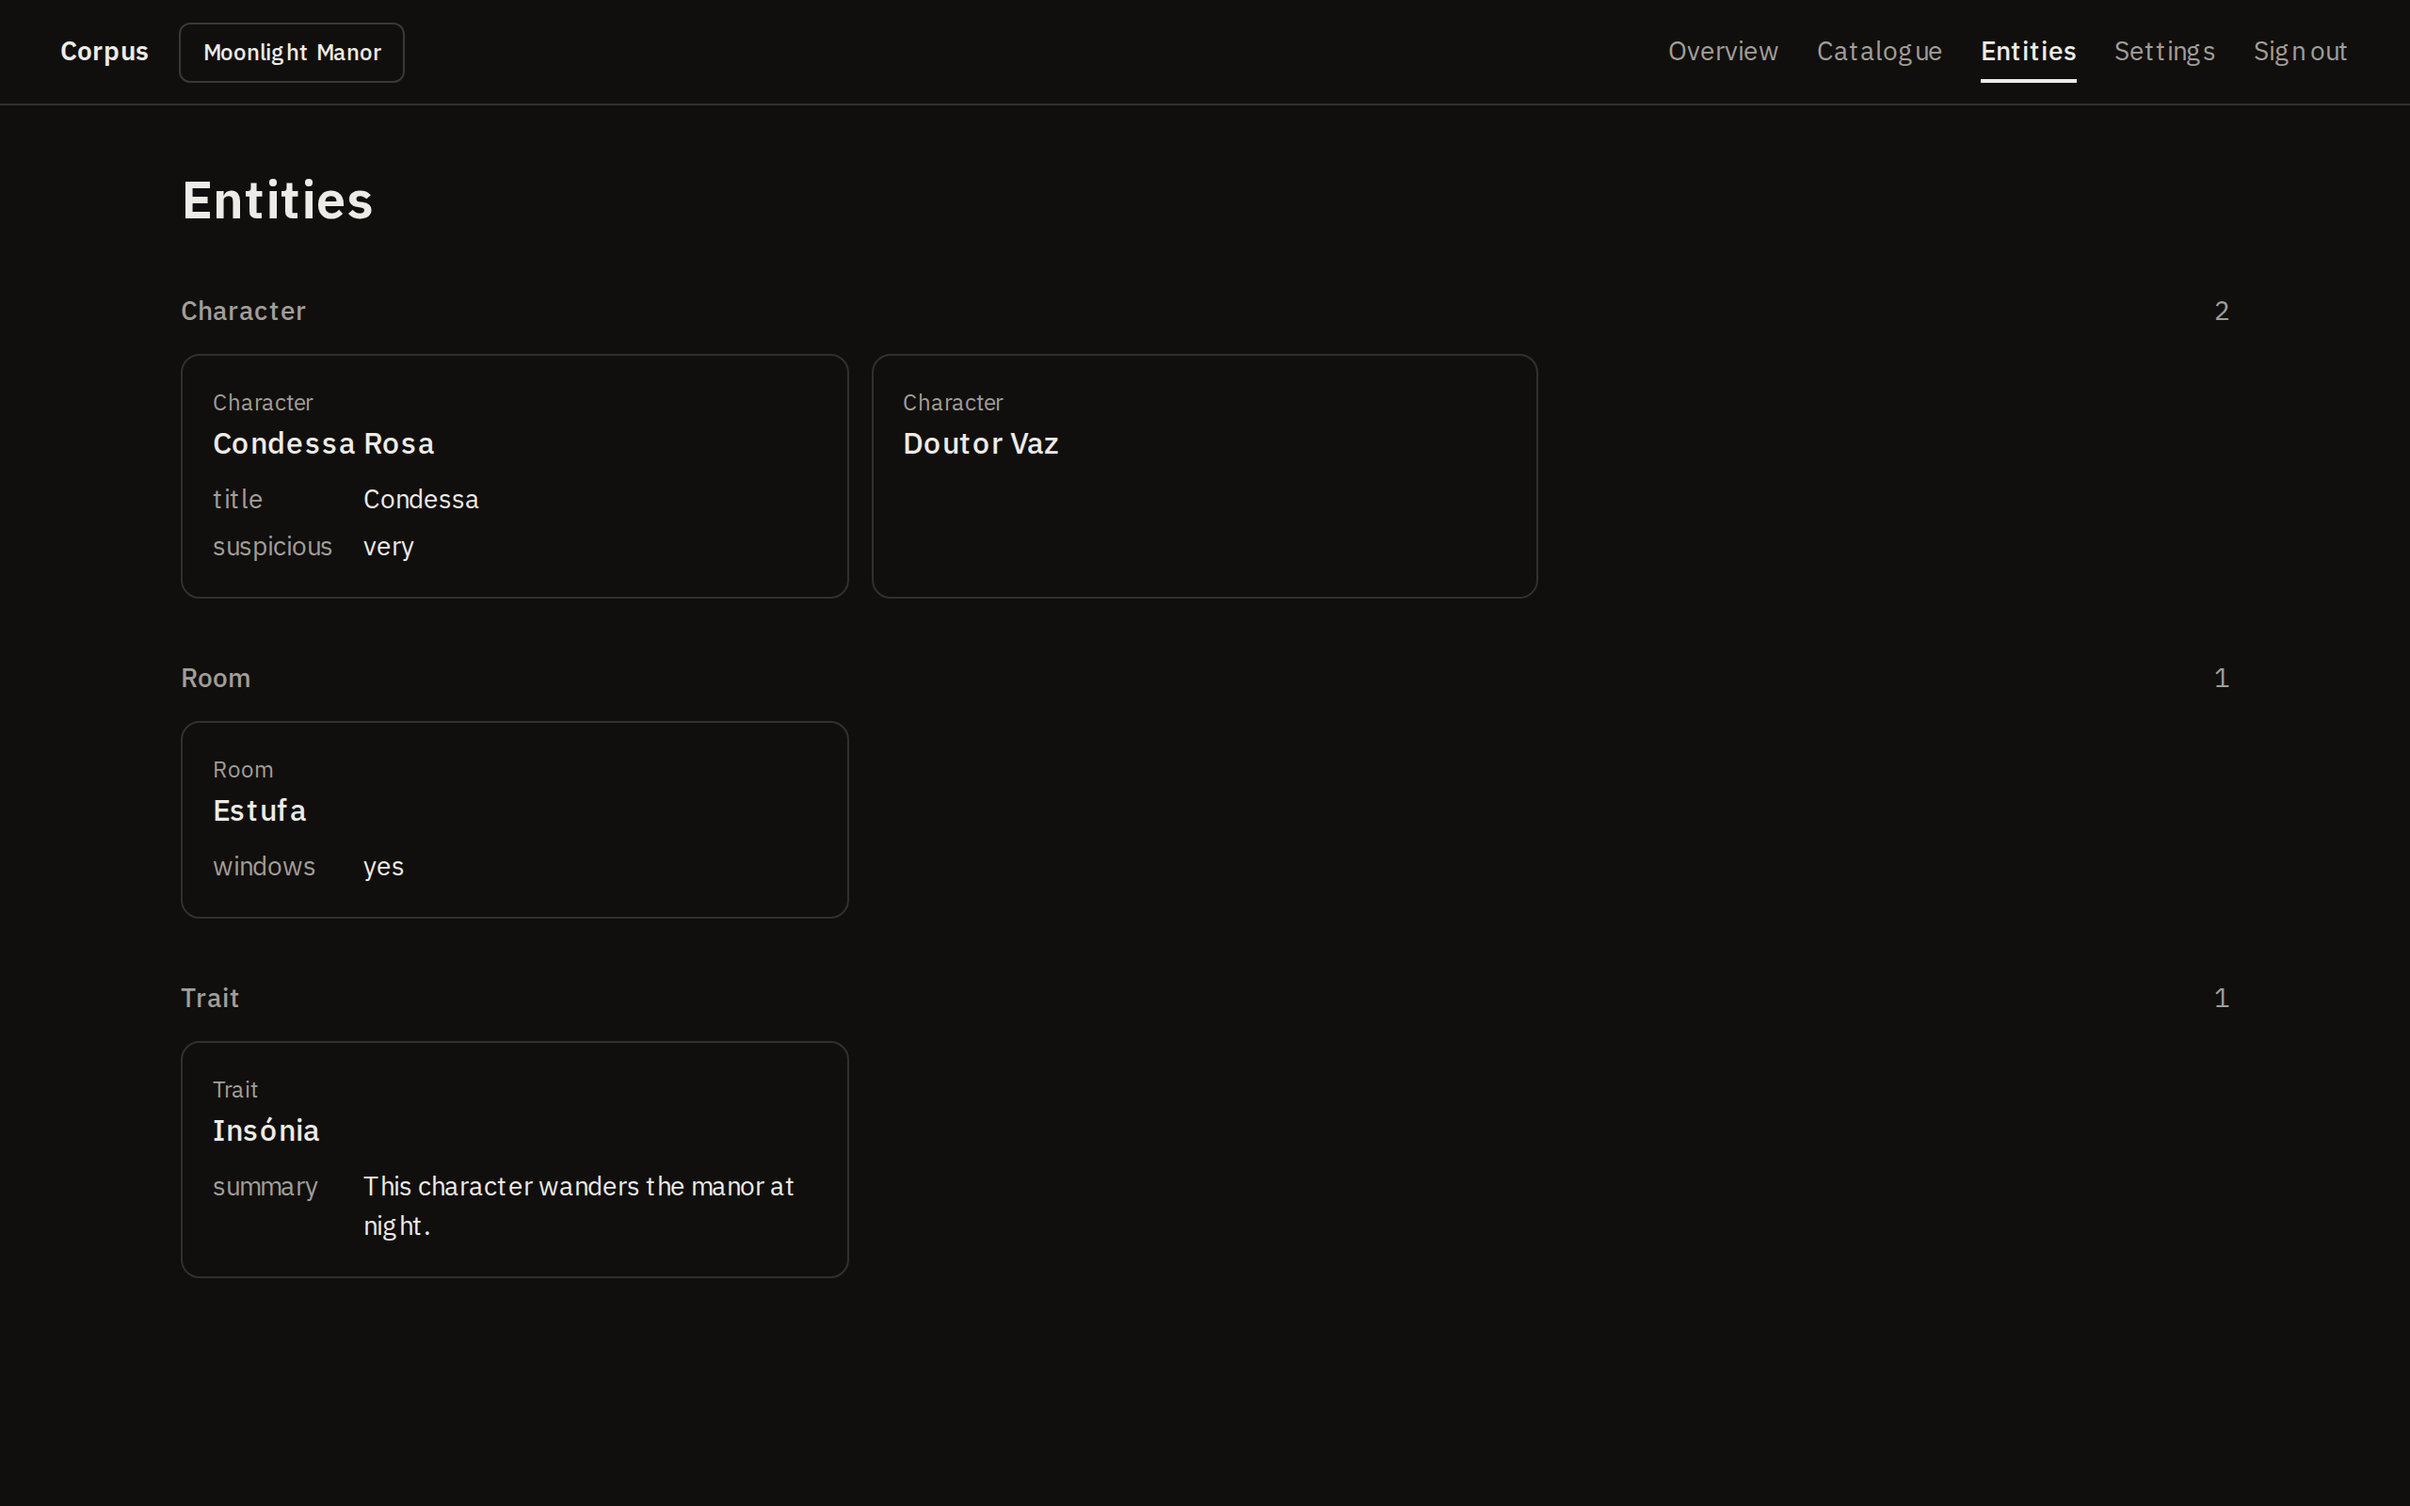
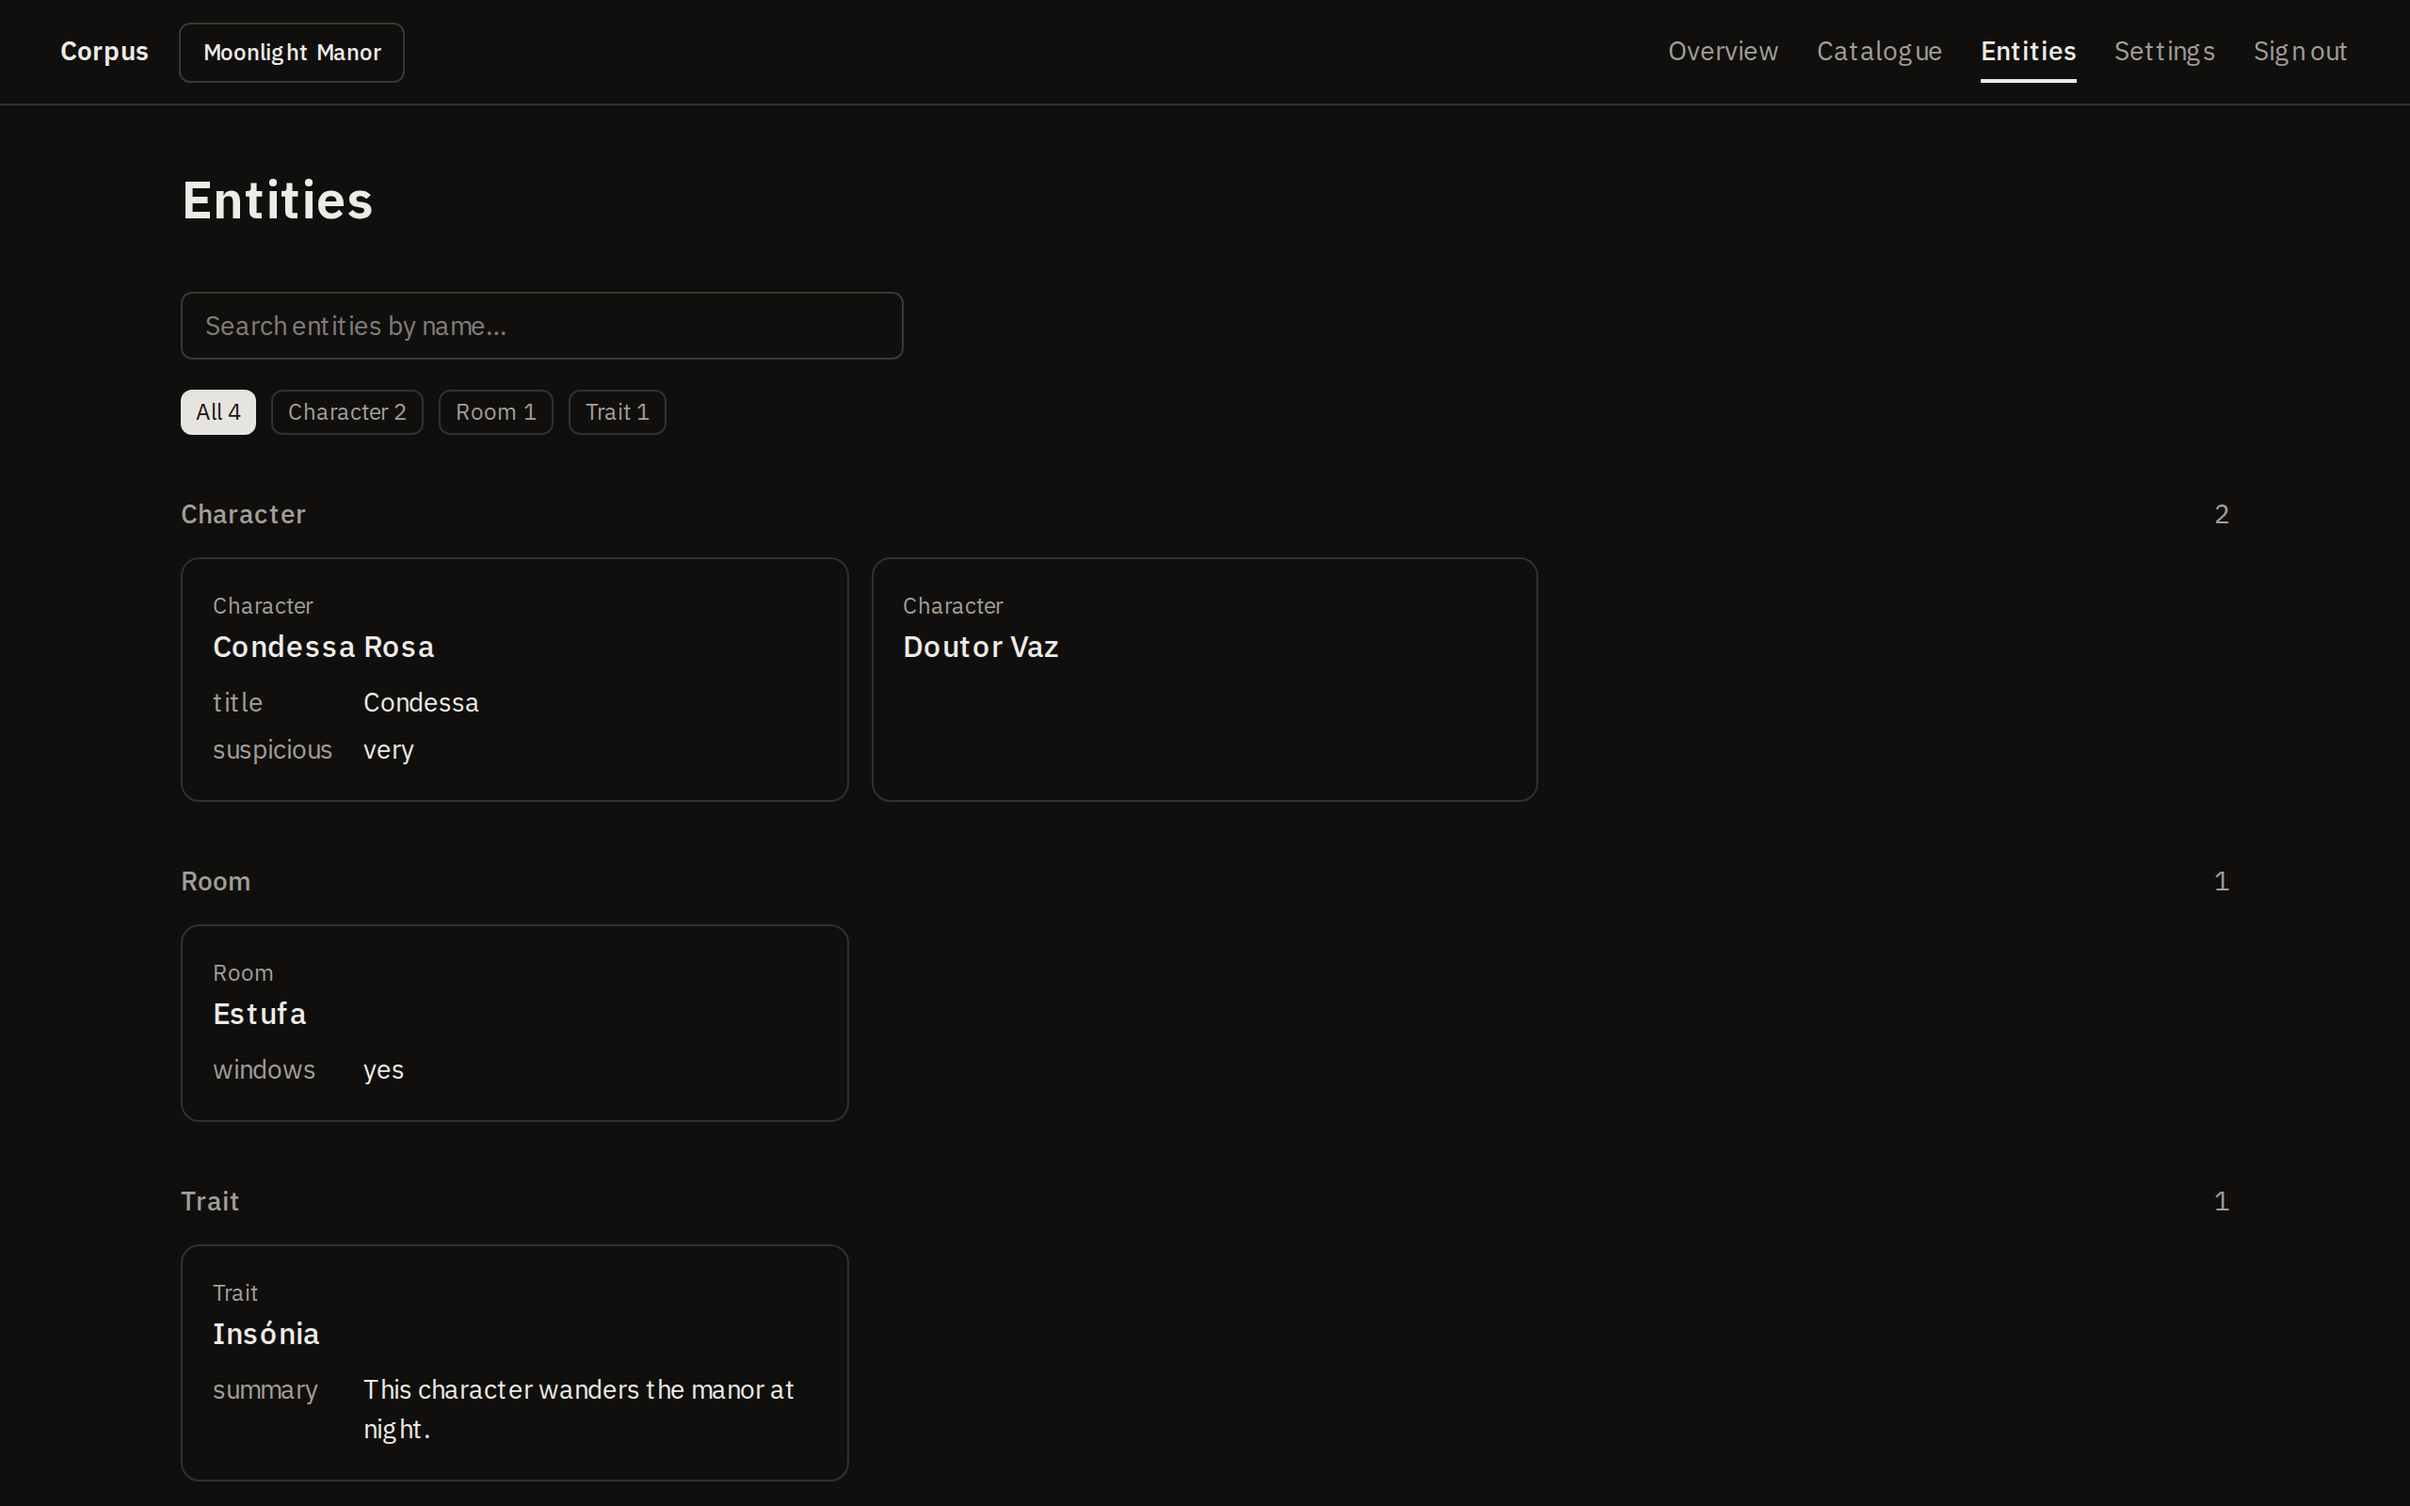
The entity browser filters by type and searches by name (#252) (#257)
At hundreds of entities the browser was one long scroll. A search box
over names (accent-insensitive, as in the catalogue) and one chip per
declared type with its count, both as query parameters, narrow the page;
an empty result says so. The docs screenshots for the browser follow.

diff --git a/apps/web/src/app/p/[slug]/entities/page.tsx b/apps/web/src/app/p/[slug]/entities/page.tsx
@@ -1,32 +1,90 @@
+import Link from "next/link";
 import { notFound } from "next/navigation";
 import { requireUser } from "@/auth/session";
 import { getDb } from "@/db";
 import { EntityCards } from "@/components/entity-cards";
-import { entitiesByType } from "@/entities/browser";
+import { SearchBox } from "@/components/search-box";
+import { chipVariants } from "@/components/ui/chip";
+import { entitiesByType, filterGroups, typeCounts } from "@/entities/browser";
 import { getProjectBySlug } from "@/projects/service";
 import { Page } from "@/components/page-container";
 import { PageHeader } from "@/components/page-header";
 import { Section } from "@/components/ui/section";
 import { t } from "@/i18n";
+import { cn } from "@/lib/utils";
 
-// Entity browser (§9.4): read-only cards per entity type.
+// Entity browser (§9.4): read-only cards per entity type, one type at a
+// time or searched by name once a project has hundreds.
 export default async function EntitiesPage({
   params,
+  searchParams,
 }: {
   params: Promise<{ slug: string }>;
+  searchParams: Promise<{ type?: string; q?: string }>;
 }) {
   await requireUser();
   const { slug } = await params;
+  const { type, q } = await searchParams;
   const db = getDb();
   const project = getProjectBySlug(db, slug);
   if (!project) notFound();
-  const groups = entitiesByType(db, project.id);
+  const all = entitiesByType(db, project.id);
+  const groups = filterGroups(all, { type, q });
+  const counts = typeCounts(all);
+  const basePath = `/p/${slug}/entities`;
+  const active = new URLSearchParams();
+  if (type) active.set("type", type);
+  if (q) active.set("q", q);
+  const total = counts.reduce((n, c) => n + c.count, 0);
+  const typeHref = (next?: string) => {
+    const params = new URLSearchParams();
+    if (next) params.set("type", next);
+    if (q) params.set("q", q);
+    const query = params.toString();
+    return query ? `${basePath}?${query}` : basePath;
+  };
+  const chip = (selected: boolean) =>
+    cn(
+      chipVariants({ variant: selected ? "solid" : "outline" }),
+      "hover:text-foreground",
+    );
 
   return (
     <Page width="wide" className="space-y-8">
       <PageHeader title={t("entities.heading")} />
-      {groups.length === 0 && (
+      {all.length === 0 ? (
         <p className="text-sm text-muted-foreground">{t("entities.empty")}</p>
+      ) : (
+        <div className="space-y-4">
+          <SearchBox
+            basePath={basePath}
+            active={active}
+            placeholder={t("entities.searchPlaceholder")}
+            label={t("entities.search")}
+          />
+          <nav
+            aria-label={t("entities.types")}
+            className="flex flex-wrap gap-2"
+          >
+            <Link href={typeHref()} className={chip(!type)}>
+              {t("entities.all")} {total}
+            </Link>
+            {counts.map((c) => (
+              <Link
+                key={c.type}
+                href={typeHref(c.type)}
+                className={chip(type === c.type)}
+              >
+                {c.label} {c.count}
+              </Link>
+            ))}
+          </nav>
+        </div>
+      )}
+      {all.length > 0 && groups.length === 0 && (
+        <p className="text-sm text-muted-foreground">
+          {t("entities.noMatches")}
+        </p>
       )}
       {groups.map((group) => (
         <Section

diff --git a/apps/web/src/entities/browser.ts b/apps/web/src/entities/browser.ts
@@ -43,3 +43,43 @@ export function entitiesByType(db: Db, projectId: number): EntityGroup[] {
   }
   return [...groups.values()];
 }
+
+export type EntityFilter = { type?: string; q?: string };
+
+// Diacritics do not count when searching names, as in the catalogue.
+function fold(text: string): string {
+  return text
+    .normalize("NFD")
+    .replace(/[\u0300-\u036f]/g, "")
+    .toLowerCase();
+}
+
+// The browser at hundreds of entities (§9.4): one type at a time, or
+// the names that contain the query, across the groups.
+export function filterGroups(
+  groups: EntityGroup[],
+  filter: EntityFilter,
+): EntityGroup[] {
+  const q = filter.q?.trim() ? fold(filter.q.trim()) : undefined;
+  return groups
+    .filter((group) => !filter.type || group.type === filter.type)
+    .map((group) =>
+      q === undefined
+        ? group
+        : {
+            ...group,
+            entities: group.entities.filter((e) => fold(e.name).includes(q)),
+          },
+    )
+    .filter((group) => group.entities.length > 0);
+}
+
+export function typeCounts(
+  groups: EntityGroup[],
+): { type: string; label: string; count: number }[] {
+  return groups.map((g) => ({
+    type: g.type,
+    label: g.label,
+    count: g.entities.length,
+  }));
+}

diff --git a/apps/web/src/entities/browser.test.ts b/apps/web/src/entities/browser.test.ts
@@ -3,7 +3,7 @@ import { expect, test } from "vitest";
 import { projects } from "@/db/schema";
 import { memoryDb } from "@/db/test-helpers";
 import { applySnapshot } from "@/ingest/apply";
-import { entitiesByType } from "./browser";
+import { entitiesByType, filterGroups, typeCounts } from "./browser";
 
 const FIXTURE = moonlightManor as Snapshot;
 
@@ -59,4 +59,21 @@ test("a project with no entities yields no groups", () => {
     .returning()
     .all();
   expect(entitiesByType(db, p!.id)).toEqual([]);
+});
+
+test("filterGroups narrows to a type, or to names containing the query without accents", () => {
+  const { db, p } = pushed();
+  const groups = entitiesByType(db, p.id);
+  expect(filterGroups(groups, { type: "room" }).map((g) => g.type)).toEqual([
+    "room",
+  ]);
+  const byName = filterGroups(groups, { q: "insonia" });
+  expect(byName.flatMap((g) => g.entities.map((e) => e.name))).toEqual([
+    "Insónia",
+  ]);
+  expect(filterGroups(groups, { q: "nobody" })).toEqual([]);
+  expect(filterGroups(groups, {})).toEqual(groups);
+  expect(typeCounts(groups).map((c) => `${c.type}:${c.count}`)).toEqual(
+    groups.map((g) => `${g.type}:${g.entities.length}`),
+  );
 });

diff --git a/apps/web/src/components/search-box.tsx b/apps/web/src/components/search-box.tsx
@@ -5,9 +5,13 @@ import { t } from "@/i18n";
 export function SearchBox({
   basePath,
   active,
+  placeholder = t("catalogue.searchPlaceholder"),
+  label = t("catalogue.search"),
 }: {
   basePath: string;
   active: URLSearchParams;
+  placeholder?: string;
+  label?: string;
 }) {
   const hidden: [string, string][] = [];
   for (const [key, value] of active) {
@@ -22,8 +26,8 @@ export function SearchBox({
         type="search"
         name="q"
         defaultValue={active.get("q") ?? ""}
-        placeholder={t("catalogue.searchPlaceholder")}
-        aria-label={t("catalogue.search")}
+        placeholder={placeholder}
+        aria-label={label}
         className="h-9 w-full rounded-md border border-input bg-transparent px-3 text-sm focus-visible:outline-none focus-visible:ring-1 focus-visible:ring-ring"
       />
     </form>
